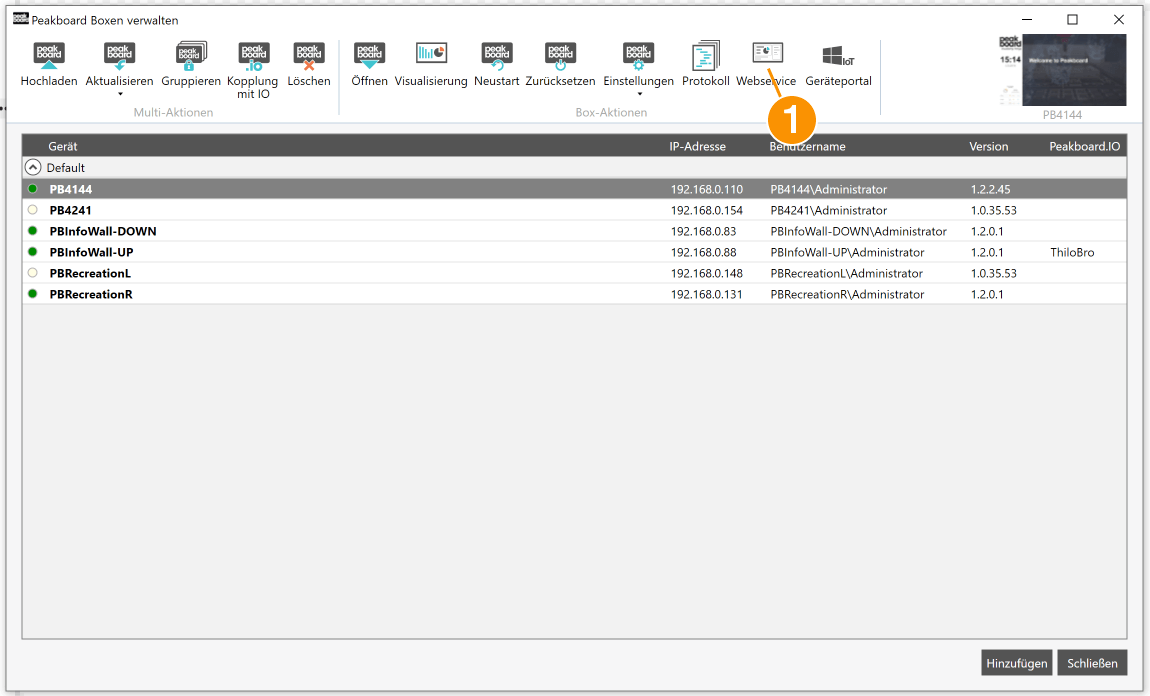
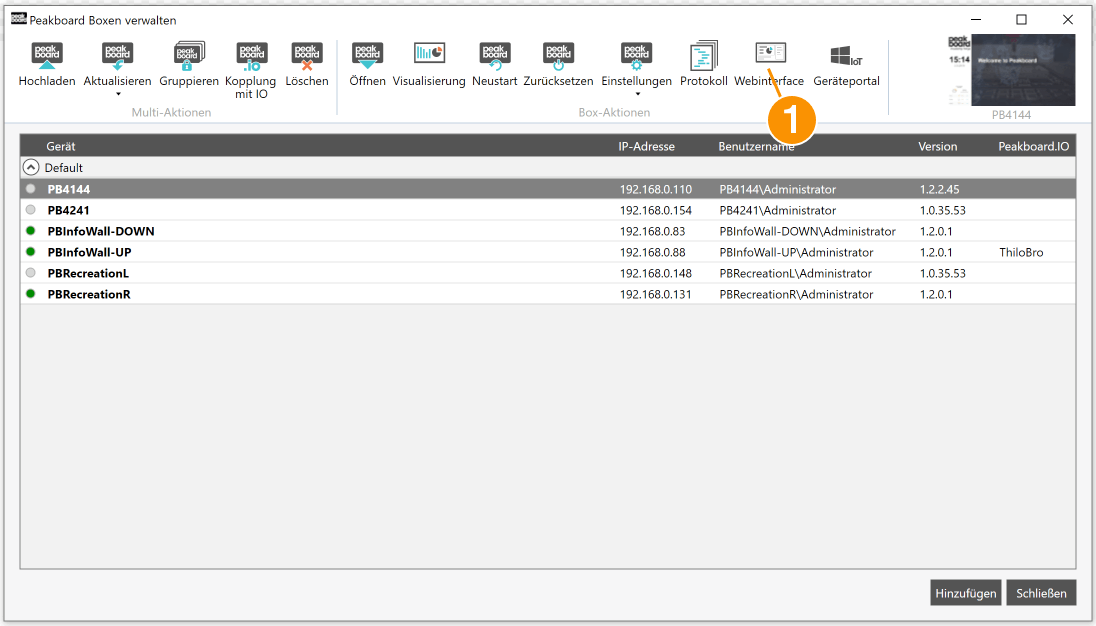
Typo and image fixes after feedback from Peter, removed some unnecessary parts.

Changed region(s): [[0.0, 0.0, 1.0, 1.0]]

diff --git a/content/_tutorials/06-de-welcome-screen.md b/content/_tutorials/06-de-welcome-screen.md
@@ -8,7 +8,7 @@ weight: 600
 ref: tut-600
 ---
 
-Um einen möglichst einfachen Einstieg in die Erstellungen eines Willkommensbildschirms zu geben, bieten wir vorgefertigte Templates an. Dies ist eine Schritt für Schritt Anleitung wie Sie Ihren persönlichen Willkommensbildschirm mit diesen Templates erstellen können. Eine generelle Einführung in Peakboard finden Sie in den [ersten Schritten](https://peakboard.rocks/erste-schritte). Wenn Sie wissen möchten wie Sie eine Peakboard Box mit Ihrem Designer verbinden und eine Visualisierung übertragen, lesen Sie am besten folgenden [Artikel](https://peakboard.rocks/anschliessen). Zum Erstellen einer Visualisierung benötigen Sie den Peakboard Designer. Dieser kann kostenfrei [heruntergeladen](https://peakboard.rocks/designer-from-welcome) werden.
+Um einen möglichst einfachen Einstieg in die Erstellungen eines Willkommensbildschirms zu geben, bieten wir vorgefertigte Templates an. Dies ist eine Schritt für Schritt Anleitung, wie Sie Ihren persönlichen Willkommensbildschirm mit diesen Templates erstellen können. Eine generelle Einführung in Peakboard finden Sie in den [ersten Schritten](https://peakboard.rocks/erste-schritte). Wenn Sie wissen möchten, wie Sie eine Peakboard Box mit Ihrem Designer verbinden und eine Visualisierung übertragen, lesen Sie am besten folgenden [Artikel](https://peakboard.rocks/anschliessen). Zum Erstellen einer Visualisierung benötigen Sie den Peakboard Designer. Dieser kann kostenfrei [heruntergeladen](https://peakboard.rocks/designer-from-welcome) werden.
 
 ## Unterschiedliche Varianten
 
@@ -47,11 +47,11 @@ Diese Visualisierung bietet Platz für bis zu sechs Termine. Verwaltet werden di
 Die initiale Konfiguration ist ein einmaliger Vorgang und ist nötig, um die generelle Gestaltung wie Logo, Hintergrund und Wetter Widget auf Ihre Bedürfnisse anzupassen. Wenn die Visualisierung Ihren Vorstellungen entspricht, laden Sie diese einfach auf Ihre Peakboard Box und Sie können sich auf die Terminverwaltung konzentrieren.
 
 Die folgenden Schritte beschreiben, wie Sie diese Templates mit den vordefinierten Quellen nutzen können.
-Wenn Sie möchten, können Sie Ihre Peakboard Box auch ohne eine Verbindung zum Internet verwenden. Auch dieses Template kann ohne eine Internetverbindung verwendet werden. Entfernen Sie einfach das Wetter Widget oder verwenden Sie das [Template ohne Internetverbindung](https://github.com/Peakboard/CoolStuff/raw/master/Demonstrator/Designer%20Templates/Administration/Welcome%20Screen%20Offline/Welcome_Screen_Offline.pbmx), welches bereits ohne diese Option kommt.
+Wenn Sie möchten, können Sie Ihre Peakboard Box auch ohne Verbindung zum Internet verwenden. Entfernen Sie einfach das Wetter Widget oder verwenden Sie das [Template ohne Internetverbindung](https://github.com/Peakboard/CoolStuff/raw/master/Demonstrator/Designer%20Templates/Administration/Welcome%20Screen%20Offline/Welcome_Screen_Offline.pbmx), welches bereits ohne diese Option kommt.
 
 ### Zeitserver einstellen
 
-Diese Einstellung definiert aus welcher Datenquelle die Peakboard Box die aktuelle Uhrzeit bezieht. Sie können die default Einstellung belassen, diese ruft den folgenden Service für die Uhrzeit auf: 'time.windows.com'. Wenn Sie Ihren lokalen Zeitserver Ihres Netzwerks verwenden möchten, können Sie diesen ändern indem Sie in der oberen Menuleiste auf den Tab 'Einstellungen/Settings' -> 'Zeitserver/Time Server' navigieren. Besonders wenn die Box keine Internetverbindung hat, ist es wichtig den lokalen Zeitserver zu hinterlegen. Fragen Sie am besten einfach Ihren Administrator nach der Adresse.
+Diese Einstellung definiert, aus welcher Datenquelle die Peakboard Box die aktuelle Uhrzeit bezieht. Sie können die default Einstellung belassen, diese ruft den folgenden Service für die Uhrzeit auf: 'time.windows.com'. Wenn Sie Ihren lokalen Zeitserver Ihres Netzwerks verwenden möchten, können Sie diesen ändern, indem Sie in der oberen Menuleiste auf den Tab 'Einstellungen/Settings' -> 'Zeitserver/Time Server' navigieren. Besonders wenn die Box keine Internetverbindung hat, ist es wichtig den lokalen Zeitserver zu hinterlegen. Fragen Sie am besten einfach Ihren Administrator nach der Adresse.
 
 ### Wetter Widget aktualisieren
 
@@ -59,7 +59,7 @@ Wenn Sie dieses Wetter Widget nicht verwenden möchten, können Sie einfach im P
 
 Wenn Sie das Wetter Widget verwenden möchten, können Sie sich Ihr eigenes Widget mit Ihrer Stadt unter folgender Adresse erstellen: https://weatherwidget.io/.
 
-Wählen Sie zuerst die Stadt, in der das Board später hängen soll, aus. Anschließend können Sie noch weitere Parameter wie Sprache, die anzuzeigenden Texte und die Einheit definieren.
+Wählen Sie zuerst die Stadt für die Wetteranzeige aus. Anschließend können Sie noch weitere Parameter wie Sprache, die anzuzeigenden Texte und die Einheit definieren.
 Auf den weiteren Tabs gibt es noch viele weitere Möglichkeiten, das Wetter Widget auf Ihre Bedürfnisse anzupassen.
 
 Für unsere Visualisierung haben wir im Tab 'Options' den Font 'Arial' verwendet, das Icon Set 'Climacons Animated', Forecast Days '3'.
@@ -81,32 +81,28 @@ Um das Peakboard Logo durch Ihr gewünschtes Firmenlogo zu ersetzen, benötigen 
 
 ![image_live](/assets/images/instant_boards/welcome/update_logo.gif)
 
-Alternativ können Sie auch ein Logo als externe Bildquelle einbinden. Dafür können Sie die Variable 'logo' öffnen und in der Tabelle unter dem Eintrag 'URL' einen Link zu einer Bilddatei im Internet angeben. Dies ist direkt im Peakboard Designer möglich oder, wenn Sie bereits eine Box besitzen, noch einfacher über das Peakboard Webinterface.
-
-Dieses Webinterface ist eine Webseite, welche Sie aufrufen können, indem Sie im Peakboard Designer im 'Startseite' Tab auf 'Verwalten / Hochladen' klicken. Im Dialog wählen Sie die gewünschte Box aus (Sie müssen die Visualisierung bereits auf eine Box geladen haben). Klicken Sie nun auf den Button 'Webinterface' (1).
-
-![image_live](/assets/images/instant_boards/welcome/Manage_Dialog_Webinterface_Button.png)
-
-Alternativ können Sie das Webinterface auch direkt in Ihrem Browser mit der URL: http://NameIhrerBox:40404 aufrufen. Sie müssen den Namen Ihrer Box eingeben, gefolgt vom Port :40404. Für den Login werden die mit der Box ausgelieferten Anmeldedaten benötigt. Anschließend sehen sie einen Screenshot Ihrer aktuell laufenden Visualisierung (1) und auf der rechten Seite (2) verschiedene Variablenlisten, welche Sie nun verändern können. Hier können Sie nun in der Variablenliste 'logo' eine 'URL' zu einer Webressource hinzufügen und über weitere Paremeter die Position und Größe beeinflussen.
-
-![image_live](/assets/images/instant_boards/welcome/Webinterface_Overview.png)
-
-Mehr über das Webinterface können Sie [hier](https://peakboard.rocks/webinterface) erfahren.
-
 ### Hintergrund definieren
 
-Als Hintergrund für diese Templates wird ein Control namens PhotoFrame verwendet. Zu Beginn sind 5 Bilder hinterlegt, die eines nach dem anderen angezeigt wird. Wenn Sie Ihre eigenen Bilder verwenden möchten, laden Sie diese einfach per Drag&Drop in den Designer. Anschließend wählen Sie in der Sidebar unter 'Bildschirme' -> 'Screen (Welcome)' das Element 'Photo Frame (PhotoFrame_Background)' aus. Hier können Sie nun unter der Eigenschaft Datenquelle die anzuzeigenden Bilder verwalten. Alternativ können Sie natürlich auch das PhotoFrame entfernen und ein einfaches Bild verwenden oder einen einfarbigen Hintergrund. Da sind Ihnen keine Grenzen gesetzt.
-
-Alternativ können auch Webseiten bzw. Webressourcen als Hintergrund eingebunden werden – Internetverbindung vorausgesetzt. Das Vorgehen ist sehr ähnlich zu dem Vorgehen beim Logo. Sie können direkt im Designer die Variablenliste 'background' öffnen und eine 'URL' angeben, oder Sie nutzen dafür das Webinterface, wenn Sie bereits eine Box besitzen.
+Als Hintergrund für diese Templates wird ein Control namens PhotoFrame verwendet. Zu Beginn sind 5 Bilder hinterlegt, die eines nach dem anderen angezeigt werden. Wenn Sie Ihre eigenen Bilder verwenden möchten, laden Sie diese einfach per Drag&Drop in den Designer. Anschließend wählen Sie in der Sidebar unter 'Bildschirme' -> 'Screen (Welcome)' das Element 'Photo Frame (PhotoFrame_Background)' aus. Hier können Sie nun unter der Eigenschaft Datenquelle die anzuzeigenden Bilder verwalten. Alternativ können Sie natürlich auch das PhotoFrame entfernen und ein einfaches Bild verwenden, einen einfarbigen Hintergrund oder gar eine Webseite. Da sind Ihnen keine Grenzen gesetzt.
 
 ### Ausgangstexte definieren
 
-Die Visualierung kommt mit vorgefertigten Texten für die Situation, dass kein Termin vorhanden ist.
-Diese Texte können Sie über die Variablenliste 'text_labels' anpassen. Diese Änderungen können Sie direkt im Peakboard Designer vornehmen indem Sie auf mit Doppelklick die Liste öffnen und im anschließenden Dialog auf 'Bearbeiten' klicken. Alternativ können Sie dafür das Webinterface verwenden, wenn Sie bereits eine Box besitzen. Dieses Webinterface ist eine Webseite, welche auf der Peakboard Box läuft und über folgende Adresse aufgerufen werden kann: http://NameIhrerBox:40404. Sie müssen den Namen Ihrer Box eingeben, gefolgt vom Port :40404. Für den Login werden die mit der Box ausgelieferten Anmeldedaten benötigt. Anschließend sehen sie einen Screenshot Ihrer aktuell laufenden Visualisierung und auf der rechten Seite verschiedene Variablenlisten welche Sie nun verändern können. In der Variablenliste 'text_labels' können Sie alle angezeigten Ausgangstexte verändern. Ändern Sie zum Beispiel den Begrüßungstext (2). Mit dem Refresh-Button können Sie einen neuen Screenshot Ihrer Visualisierung laden (3).
+Die Visualierung kommt mit vorgefertigten Texten für den Fall, dass kein Termin vorhanden ist.
+Diese Texte können Sie über die Variablenliste 'text_labels' anpassen. Diese Änderungen können Sie direkt im Peakboard Designer vornehmen, indem Sie mit Doppelklick die Liste öffnen und im anschließenden Dialog auf 'Bearbeiten' klicken. 
+
+Alternativ können Sie dafür das Webinterface verwenden, wenn Sie bereits eine Box besitzen. Dieses Webinterface ist eine Webseite, welche Sie aufrufen können, indem Sie im Peakboard Designer im 'Startseite' Tab auf 'Verwalten / Hochladen' klicken. Im Dialog wählen Sie die gewünschte Box aus (Sie müssen die Visualisierung bereits auf eine Box geladen haben). Klicken Sie nun auf den Button 'Webinterface' (1). Mehr über das Webinterface können Sie [hier](https://peakboard.rocks/webinterface) erfahren.
+
+![image_live](/assets/images/instant_boards/welcome/Manage_Dialog_Webinterface_Button.png)
+
+Sie können das Webinterface auch direkt in Ihrem Browser mit der URL: http://NameIhrerBox:40404 aufrufen. Sie müssen den Namen Ihrer Box eingeben, gefolgt vom Port :40404. Für den Login werden die mit der Box ausgelieferten Anmeldedaten benötigt. Anschließend sehen sie einen Screenshot Ihrer aktuell laufenden Visualisierung (1) und auf der rechten Seite (2) verschiedene Variablenlisten. Hier können Sie nun in der Variablenliste 'text_labels' die Texte bearbeiten. Mit dem Refresh-Button können Sie einen neuen Screenshot Ihrer Visualisierung laden (3).
+
+![image_live](/assets/images/instant_boards/welcome/Webinterface_Overview.png)
+
+In der folgenden Tabelle können Sie nun Ihren gewünschten Text angeben und mit einem Klick auf 'Update' speichern. Durch einen Klick auf den 'Refresh'-Button (3) wird ein neuer Screenshot Ihrer Visualisierung geladen.
 
 ![image_live](/assets/images/instant_boards/welcome/Webinterface_Appointment_TextLabels.png)
 
-Das wars, Sie haben Ihre Visualisierung auf Ihre Bedürfnisse angepasst. Nun müssen Sie die Visualisierung noch auf Ihre Peakboard Box hochladen. Dazu gehen Sie im Menüband oben unter dem Tab 'Startseite' auf den Punkt 'Verwalten / Hochladen'. Im anschließenden Dialog wählen Sie Ihre Box und klicken  auf 'Hochladen'. Nun wird die Visualisierung auf Ihre Box geladen, nach kurzer Zeit sollte die Visualisierung, auf dem an der Peakboard Box angeschlossenen Bildschirm, sichtbar werden. Wenn Sie mit dem Ergebnis zufrieden sind, können Sie sich anschließend auf die Terminverwaltung konzentrieren.  Falls Sie Ihre Peakboard Box noch nicht verbunden haben, lesen Sie am besten folgenden [Artikel](https://peakboard.rocks/anschliessen). 
+Das wars, Sie haben Ihre Visualisierung auf Ihre Bedürfnisse angepasst. Nun müssen Sie die Visualisierung noch auf Ihre Peakboard Box hochladen. Dazu gehen Sie im Menü oben unter dem Tab 'Startseite' auf den Punkt 'Verwalten / Hochladen'. Im anschließenden Dialog wählen Sie Ihre Box und klicken  auf 'Hochladen'. Nun wird die Visualisierung auf Ihre Box geladen, nach kurzer Zeit sollte die Visualisierung, auf dem an der Peakboard Box angeschlossenen Bildschirm, sichtbar werden. Wenn Sie mit dem Ergebnis zufrieden sind, können Sie sich anschließend auf die Terminverwaltung konzentrieren.  Falls Sie Ihre Peakboard Box noch nicht verbunden haben, lesen Sie am besten folgenden [Artikel](https://peakboard.rocks/anschliessen). 
 
 ## Termine verwalten
 
@@ -120,7 +116,7 @@ Lesen Sie die Anleitung zu Ihrer verwendeten Template-Variante:
 
 ### Einfacher Screen mit einem Eintrag
 
-Die Visualisierung mit nur [einem Eintrag](https://github.com/Peakboard/CoolStuff/raw/master/Demonstrator/Designer%20Templates/Administration/Welcome%20Screen%20Online%20Single/Welcome_Screen_Online_Single.pbmx) bietet Ihnen die Möglichkeit, einen allgemeinen Willkommenstext anzuzeigen oder einen speziellen für eine Person oder Firma. Die Texte die angezeigt werden, werden über das Peakboard Webinterface verwaltet. Dieses Webinterface ist eine Webseite, welche auf der Peakboard Box läuft und über folgende Adresse aufgerufen werden kann: http://NameIhrerBox:40404. Sie müssen den Namen Ihrer Box eingeben, gefolgt vom Port :40404. Für den Login werden die mit der Box ausgelieferten Anmeldedaten benötigt. Anschließend sehen sie einen Screenshot Ihrer aktuell laufenden Visualisierung (1) und auf der rechten Seite (2) verschiedene Variablenlisten, welche Sie nun verändern können. Über die Listen 'background', 'logo' und 'text_labels' können sie die Optik der Visualisierung beeinflussen, dies wird in der initialen Konfiguration bereits beschrieben.
+Die Visualisierung mit nur [einem Eintrag](https://github.com/Peakboard/CoolStuff/raw/master/Demonstrator/Designer%20Templates/Administration/Welcome%20Screen%20Online%20Single/Welcome_Screen_Online_Single.pbmx) bietet Ihnen die Möglichkeit, einen allgemeinen Willkommenstext anzuzeigen oder einen speziellen für eine Person oder Firma. Die angezeigten Texte werden über das Peakboard Webinterface verwaltet. Dieses Webinterface ist eine Webseite, welche auf der Peakboard Box läuft und über folgende Adresse aufgerufen werden kann: http://NameIhrerBox:40404. Sie müssen den Namen Ihrer Box eingeben, gefolgt vom Port :40404. Für den Login werden die mit der Box ausgelieferten Anmeldedaten benötigt. Anschließend sehen sie einen Screenshot Ihrer aktuell laufenden Visualisierung (1) und auf der rechten Seite (2) verschiedene Variablenlisten, welche Sie nun verändern können. Über die Listen 'background', 'logo' und 'text_labels' können sie die Optik der Visualisierung beeinflussen, dies wird in der initialen Konfiguration bereits beschrieben.
 
 ![image_live](/assets/images/instant_boards/welcome/Webinterface_Overview_Single.png)
 
@@ -131,11 +127,11 @@ In der Liste 'visitor' können Sie noch weitere Angaben zum Besucher machen. Sie
 
 ### Mehrfache Termine mit Tabelle
 
-Die Visualisierung von [mehreren Terminen mit Tabellenverwaltung](https://github.com/Peakboard/CoolStuff/raw/master/Demonstrator/Designer%20Templates/Administration/Welcome%20Screen%20Online/Welcome_Screen_Online.pbmx), bietet Ihnen die Möglichkeit einen allgemeinen Begrüßungstext anzuzeigen oder ein bis drei Termine. Die Termine die angezeigt werden, werden über das Peakboard Webinterface verwaltet. Dieses Webinterface ist eine Webseite, welche auf der Peakboard Box läuft und über folgende Adresse aufgerufen werden kann: http://NameIhrerBox:40404. Sie müssen den Namen Ihrer Box eingeben, gefolgt vom Port :40404. Für den Login werden die mit der Box ausgelieferten Anmeldedaten benötigt. Anschließend sehen sie einen Screenshot Ihrer aktuell laufenden Visualisierung (1) und auf der rechten Seite (2) verschiedene Variablenlisten welche Sie nun verändern können. Über die Listen 'background', 'logo' und 'text_labels' können sie die Optik der Visualisierung beeinflussen, dies wird in der initialen Konfiguration bereits beschrieben.
+Die Visualisierung von [mehreren Terminen mit Tabellenverwaltung](https://github.com/Peakboard/CoolStuff/raw/master/Demonstrator/Designer%20Templates/Administration/Welcome%20Screen%20Online/Welcome_Screen_Online.pbmx), bietet Ihnen die Möglichkeit einen allgemeinen Begrüßungstext anzuzeigen oder ein bis drei Termine. Die Termine die angezeigt werden, werden über das Peakboard Webinterface verwaltet. Dieses Webinterface ist eine Webseite, welche auf der Peakboard Box läuft und über folgende Adresse aufgerufen werden kann: http://NameIhrerBox:40404. Sie müssen den Namen Ihrer Box eingeben, gefolgt vom Port :40404. Für den Login werden die mit der Box ausgelieferten Anmeldedaten benötigt. Anschließend sehen sie einen Screenshot Ihrer aktuell laufenden Visualisierung (1) und auf der rechten Seite (2) verschiedene Variablenlisten, welche Sie nun verändern können. Über die Listen 'background', 'logo' und 'text_labels' können sie die Optik der Visualisierung beeinflussen, dies wird in der initialen Konfiguration bereits beschrieben.
 
 ![image_live](/assets/images/instant_boards/welcome/Webinterface_Overview.png)
 
-Für das Verwalten der dargestellten Termine öffnen Sie die liste 'appointments'. In dieser Tabelle können Sie nun unterschiedliche Termine anlegen. Geben Sie dazu immer ein Datum, eine Start- und Endzeit an und jeweils einen Titel des Termins (Subject). Die Optionen Body und Location sind optional, damit können Sie noch weitere Information wie beispielsweise Ansprechpartner und Raum angeben. Es werden anschließend immer die drei nächsten Termine des heutigen Tages in der Visualisierung angezeigt. Um weitere Termine hinzuzufügen drücken Sie auf den '+' Button (3) am unteren Ende der Tabelle.
+Für das Verwalten der dargestellten Termine öffnen Sie die liste 'appointments'. In dieser Tabelle können Sie nun unterschiedliche Termine anlegen. Geben Sie dazu immer ein Datum, eine Start- und Endzeit an und jeweils einen Titel des Termins (Subject). Die Optionen Body und Location sind optional, damit können Sie noch weitere Informationen wie beispielsweise Ansprechpartner und Raum angeben. Es werden anschließend immer die drei nächsten Termine des heutigen Tages in der Visualisierung angezeigt. Um weitere Termine hinzuzufügen drücken Sie auf den '+' Button (3) am unteren Ende der Tabelle.
 
 ![image_live](/assets/images/instant_boards/welcome/Webinterface_Appointment_Table.png)
 
@@ -143,7 +139,7 @@ Ist kein weiterer Termin für den heutigen Tag vorhanden, wird der allgemeine Be
 
 ### Office Kalenderanbindung
 
-Um die [Visualisierung mit Kalenderanbindung](https://github.com/Peakboard/CoolStuff/raw/master/Demonstrator/Designer%20Templates/Administration/Welcome%20Screen%20Calendar/Welcome_Screen_Calendar.pbmx) nutzen zu können, müssen Sie sich mit Ihrem privaten – oder noch besser einem geteilten – Kalender Account in Ihr Microsoft Konto anmelden und eine Freigabe für die nötigen Information für Peakboard freischalten.
+Um die [Visualisierung mit Kalenderanbindung](https://github.com/Peakboard/CoolStuff/raw/master/Demonstrator/Designer%20Templates/Administration/Welcome%20Screen%20Calendar/Welcome_Screen_Calendar.pbmx) nutzen zu können, müssen Sie sich mit Ihrem privaten – oder noch besser einem geteilten – Kalender Account in Ihrem Microsoft Konto anmelden und eine Freigabe für die nötigen Informationen für Peakboard freischalten.
 
 Öffnen Sie dazu die Visualisierungsdatei mit dem Peakboard Designer. Nun können Sie in der linken Sidebar die Kalenderdatenquelle öffnen (Visualisierung -> Daten -> Calendar). Unter dem zweiten Punkt 'Autorisierungsstatus' müssen Sie nun über den Button 'Autorisieren' eine Freigabe für Ihren Kalender einrichten. Führen Sie dazu die Schritte der Windowsanmeldung aus und erlauben Sie Peakboard Zugriff auf den Kalender. Ist die Autorisierung erteilt können Sie den Dialog mit OK schließen, die Visualisierung speichern. Nun laden Sie die aktuelle Visualisierung auf Ihre Peakboard Box hoch.
 
